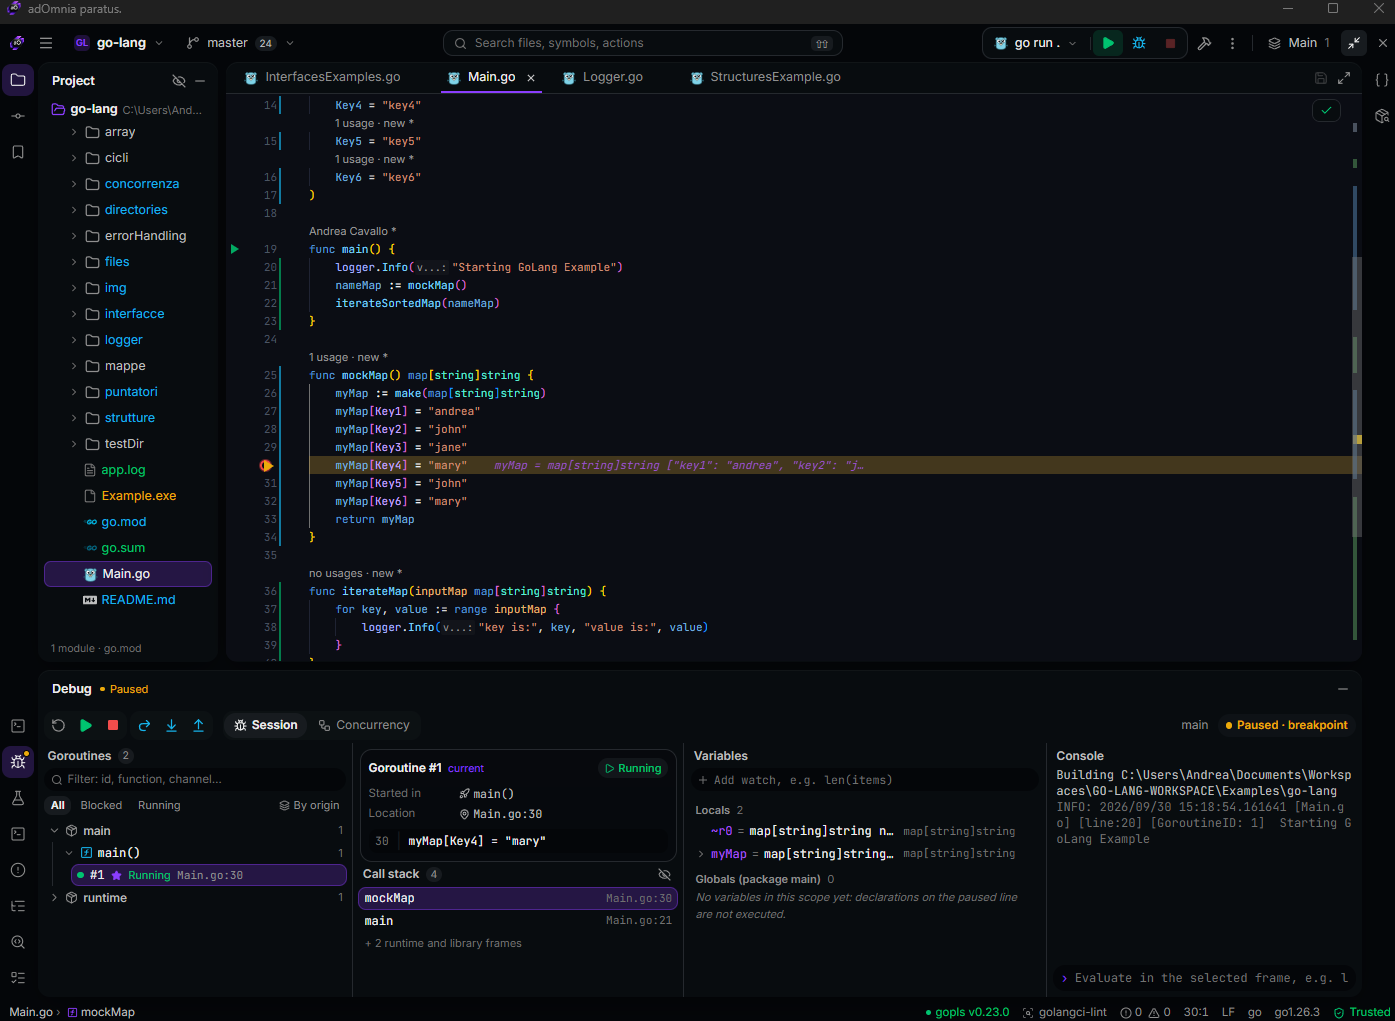
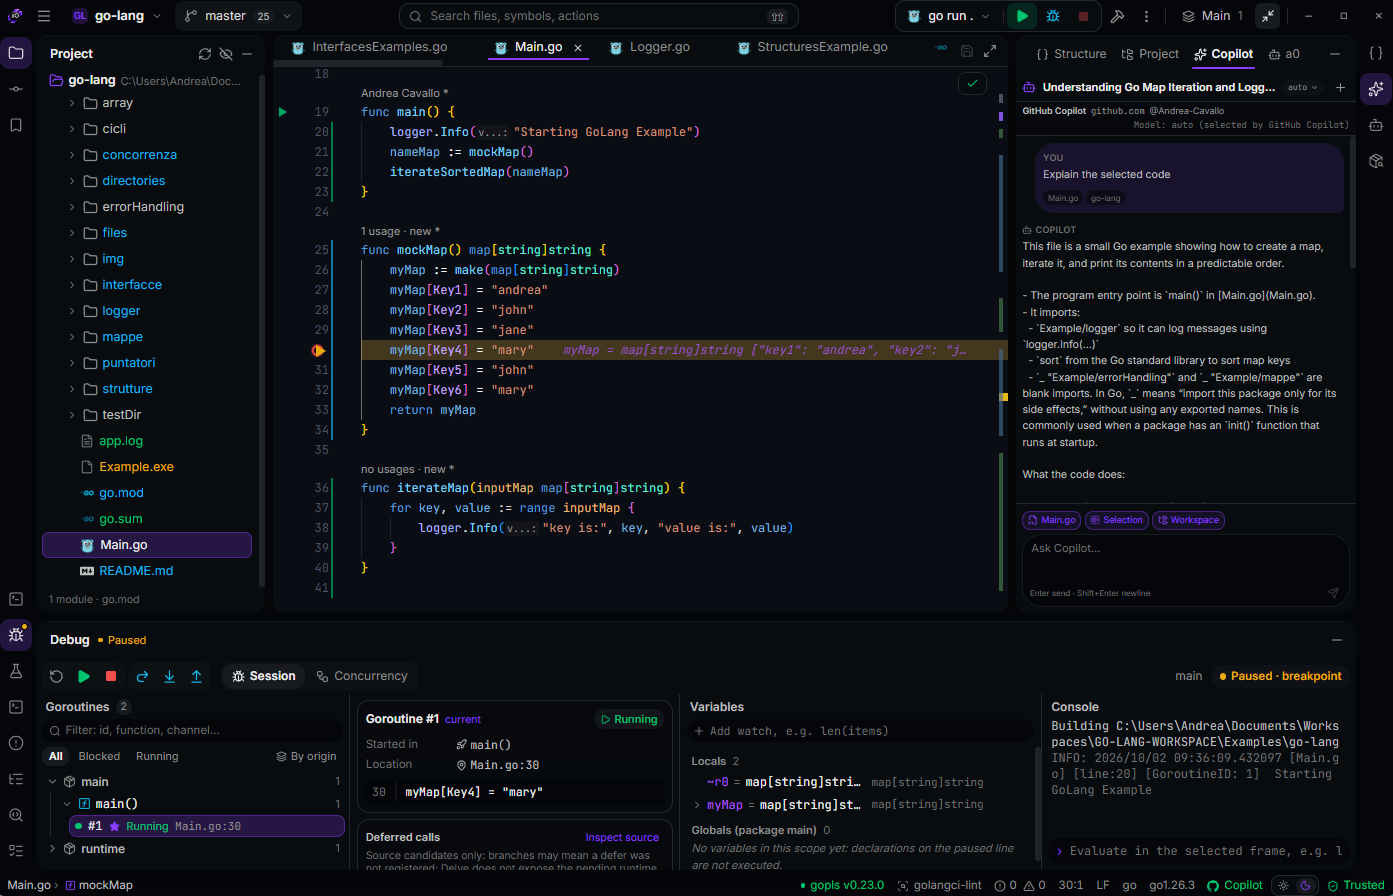
docs(readme): lead with gO Studio and the all-in-one code-to-runtime story

diff --git a/README.md b/README.md
@@ -2,20 +2,58 @@
 
 ![adOmnia banner](assets/images/banner.png)
 
-adOmnia is a local-first desktop application for API development and debugging, with an integrated Go IDE.
+**A Go IDE and the whole API toolbox in one local-first desktop app.**
 
-It combines an API client (REST, GraphQL, SOAP, gRPC, WebSocket, SSE), message broker clients, a mock server, an intercepting proxy, browser debugging, log analysis, database explorers and a Git client in a single workspace. **gO Studio**, the built-in Go IDE, adds editing with gopls, Delve debugging, tests, coverage and an integrated terminal.
+Write the service. Run it. Call it. Debug it. Inspect its database, messages and logs, without leaving the workspace.
 
-adOmnia runs on Windows, macOS and Linux. It requires no account and collects no telemetry. Workspace data is stored locally; AI features are optional and connect only to the provider you configure.
+**gO Studio** is a complete Go IDE: gopls, Delve, tests, coverage, Git and an integrated terminal. It runs next to an API client (REST, GraphQL, SOAP, gRPC, WebSocket, SSE), message broker clients, database explorers, a mock server, an intercepting proxy, browser debugging and a log inspector. They are not separate tools glued together: a Go service you start from gO Studio becomes a **live session** that every other tool can see.
+
+adOmnia runs on Windows, macOS and Linux. It needs no account, collects no telemetry and keeps your data on your machine; AI features are optional and connect only to the provider you configure.
 
 [![Release](https://img.shields.io/github/v/release/Andrea-Cavallo/adOmnia?color=8A2BE2)](https://github.com/Andrea-Cavallo/adOmnia/releases/latest)
 [![Build](https://img.shields.io/github/actions/workflow/status/Andrea-Cavallo/adOmnia/build.yml?branch=master&label=build)](https://github.com/Andrea-Cavallo/adOmnia/actions/workflows/build.yml)
 [![License: MIT](https://img.shields.io/badge/License-MIT-blue.svg)](LICENSE.md)
 [![Website](https://img.shields.io/badge/website-adomnia--dev.com-8A2BE2)](https://www.adomnia-dev.com)
 
-[Download](#download) · [Features](#features) · [Workflows](#workflows) · [gO Studio](#go-studio) · [AI](#ai) · [CLI](#command-line-and-ci) · [Building from source](#building-from-source) · [Documentation](#documentation)
+[gO Studio](#go-studio-the-go-ide) · [All in one](#from-code-to-runtime-in-one-app) · [Download](#download) · [API toolbox](#api-and-runtime-toolbox) · [Workflows](#workflows) · [AI](#ai) · [CLI](#command-line-and-ci) · [Building from source](#building-from-source) · [Documentation](#documentation)
 
-![adOmnia API workspace with request editing and response inspection](assets/images/adOmniaInterface1.png)
+![gO Studio in the light appearance: project tree, editor with inline debug values, Copilot chat and the concurrency-first debugger](assets/images/go-ide-white.png)
+
+## gO Studio: the Go IDE
+
+gO Studio is the Go IDE built into adOmnia. It is designed for day-to-day Go work on real machines, including corporate PCs behind a VPN or proxy.
+
+| Area | What you get |
+| --- | --- |
+| **Editing** | Completion, navigation, hover, rename, Change Signature, extract and other refactorings via gopls; diagnostics, quick fixes, CodeLens, golangci-lint and staticcheck; a three-way merge editor. |
+| **Run and test** | Run from the gutter next to `func main` or a test; test explorer with coverage in the gutter; Makefile targets, Dockerfiles and docker compose services; a Run console that colours log levels (`log`, slog, zap, zerolog, logrus). |
+| **Debugging** | Delve with conditional, hit-count and function breakpoints, logpoints, stop on panic and Run to Cursor. A **concurrency-first** view groups goroutines by origin, shows where each one started and evaluates expressions in the selected frame. |
+| **Go insight** | Dependency graph with transitive versions, licenses, updates and `govulncheck`; a visual `go.mod` editor (Go version, toolchain, `exclude`, `retract`, version downgrade, `tidy` preview); a Context Propagation Inspector for `context.Context`. |
+| **AI** | GitHub Copilot chat and the a0 assistant beside the editor; *Fix with AI* proposes a diff you can apply per file or per change block. Files listed in `.adomnia/aiignore` and secrets in code never leave the machine. |
+| **Workspace** | Git in the editor, an integrated terminal, local history, crash recovery of unsaved buffers, multiple projects side by side, any of them in its own window. |
+| **Toolchain** | Uses the project's Go SDK, detected locally in milliseconds or installed from the official distribution; per-project `GOPROXY`, `GOPRIVATE`, `CGO_ENABLED`, `GOOS`/`GOARCH` and build tags; no silent toolchain downloads. |
+
+**Trust model.** A newly opened project can be browsed and edited, but no Go tool, build or process runs against it until you explicitly trust it.
+
+![gO Studio in the dark appearance](assets/images/go-ide.png)
+
+See the [gO Studio guide](docs/GO-STUDIO.md) for trust rules, optional tools, storage and keyboard shortcuts.
+
+## From code to runtime in one app
+
+Most Go developers switch between an IDE, an API client, a database GUI, a Kafka tool, a log viewer and a terminal. In adOmnia these are views of the same running service.
+
+```text
+code → running service → API request → breakpoint → code → response
+```
+
+Start a service from gO Studio with Run or Debug and it becomes a [Live Development Session](docs/LIVE-SESSION.md):
+
+- **Debug Request** next to *Send* starts the service under Delve if needed, waits for its port, sends the request and follows it. When it stops at a breakpoint, the response area shows where, and the split view puts the code and the request side by side.
+- **Request ↔ handler.** The API Workspace shows the Go handler that serves a request; in gO Studio a CodeLens on the handler opens, runs or debugs its linked request.
+- **Everything one request touched.** Response tabs list the SQL queries, Kafka messages and log lines the request caused, next to status, timing and breakpoints hit. *Mock this response* turns it into a mock.
+- **Runtime enrichment.** gO Studio overlays what actually ran (routes, files, datasources, topics, latency, errors) on the static dependency picture, and flags dependencies that never appeared at runtime.
+- **One keyboard.** Ctrl+Tab cycles the code at the breakpoint, the request, its SQL, its Kafka message and its logs; Alt+Shift+1…5 jump between gO Studio, API Workspace, Database, Broker Studio and the service logs.
 
 ## Download
 
@@ -29,14 +67,15 @@ Download the latest build from **[GitHub Releases](https://github.com/Andrea-Cav
 
 Each release includes `SHA256SUMS.txt`. See the [installation guide](docs/INSTALL.md) for platform-specific steps.
 
-### Sending a first request
+### Getting started
 
-1. Open **API Workspace** and create a **New Request**, either at workspace root or inside a collection.
-2. Choose the method, enter the URL and set headers, authentication and body as needed.
-3. Send the request and review status, timing, headers, body and assertion results.
-4. Optionally create an Environment for `{{variables}}`, or import a Postman collection, cURL command or OpenAPI document.
+1. **Go project:** open **gO Studio**, choose *Open Folder* on a folder with a `go.mod`, then trust it to enable gopls, Run, Debug and tests.
+2. **First request:** open **API Workspace**, create a **New Request**, set method, URL, headers, authentication and body, then send it.
+3. **Connect them:** run the service from gO Studio and use **Debug Request** in the API Workspace to stop at your handler's breakpoint.
 
-## Features
+## API and runtime toolbox
+
+![adOmnia API workspace with request editing and response inspection](assets/images/adOmniaInterface1.png)
 
 | Area | Summary |
 | --- | --- |
@@ -47,7 +86,6 @@ Each release includes `SHA256SUMS.txt`. See the [installation guide](docs/INSTAL
 | **Debugging** | Browser debugging via the Chrome DevTools Protocol, application log inspector, HAR viewer, network diagnostics, payload utilities and redacted evidence export. |
 | **Data and documents** | SQLite, PostgreSQL, MySQL and MongoDB explorers; Markdown, Mermaid and LaTeX editing; PDF annotation, forms and digital signatures. |
 | **Git** | Clone and init, staging, commits, history graph, branches, merge, push/pull, diff, conflict resolution, and collection export to a reviewable folder layout. |
-| **Go development** | gO Studio: see [below](#go-studio). |
 | **AI and MCP** | Optional cloud or local models, the a0 assistant, a local agent gateway, an MCP client/debugger and an MCP server generator. |
 | **Security and customization** | Encrypted vault, private environments, mTLS with PEM and JKS keystores, certificate tools, JavaScript plugins, templates and themes. |
 
@@ -97,27 +135,6 @@ my-collection/
 ```
 
 Collection and folder settings can define shared authentication, headers, variables and scripts.
-
-## gO Studio
-
-The current Go Studio workspace below shows the Project view, editor actions and
-Run console that live alongside the API tools in the same local desktop app.
-
-![gO Studio: project tree, editor with gutter run actions and the Run console](assets/images/go-ide.png)
-
-gO Studio is the Go IDE built into adOmnia.
-
-- **Editing:** completion, navigation, refactoring and diagnostics via gopls; golangci-lint and staticcheck integration.
-- **Run and test:** build and run from the gutter next to `func main`, run tests with coverage, run Makefile targets, Dockerfiles and docker compose services.
-- **Debugging:** Delve with conditional, hit-count and function breakpoints, logpoints, stop on panic and Run to Cursor.
-- **Toolchain:** uses the project's Go SDK, detected locally or installed from the official distribution; per-project `GOPROXY`, `GOPRIVATE`, `CGO_ENABLED`, `GOOS`/`GOARCH` and build tags.
-- **Integration:** Git in the editor, an integrated terminal, and shortcuts to the Docker Lab, database and broker tools for services declared in `go.mod`.
-
-**Trust model.** A newly opened project can be browsed and edited, but no Go tool runs against it until it is explicitly trusted. Multiple projects can be open side by side, each isolated, and any of them can be moved to a separate window.
-
-**Fix with AI** sends the relevant code to the configured AI provider and shows the proposed change as a diff for review before it is applied.
-
-See the [gO Studio guide](docs/GO-STUDIO.md) for trust rules, optional tools, storage and keyboard shortcuts.
 
 ## AI
 
@@ -249,6 +266,7 @@ On Linux, builds use the GTK 3 build tag. See the [build guide](docs/BUILD.md) f
 | [Build](docs/BUILD.md) | Toolchain, native dependencies, packaging |
 | [Feature catalog](docs/adomnia-feature-catalog.en.md) | Module-by-module reference |
 | [gO Studio](docs/GO-STUDIO.md) | Go IDE usage, trust model, tools, shortcuts |
+| [Live Development Session](docs/LIVE-SESSION.md) | Code ↔ running service ↔ API request, debugging across tools |
 | [FAQ](docs/FAQ.md) | Common questions |
 | [Troubleshooting](docs/TROUBLESHOOTING.md) | Diagnostics and recovery |
 | [Architecture](docs/ARCHITECTURE.md) | Application structure |
